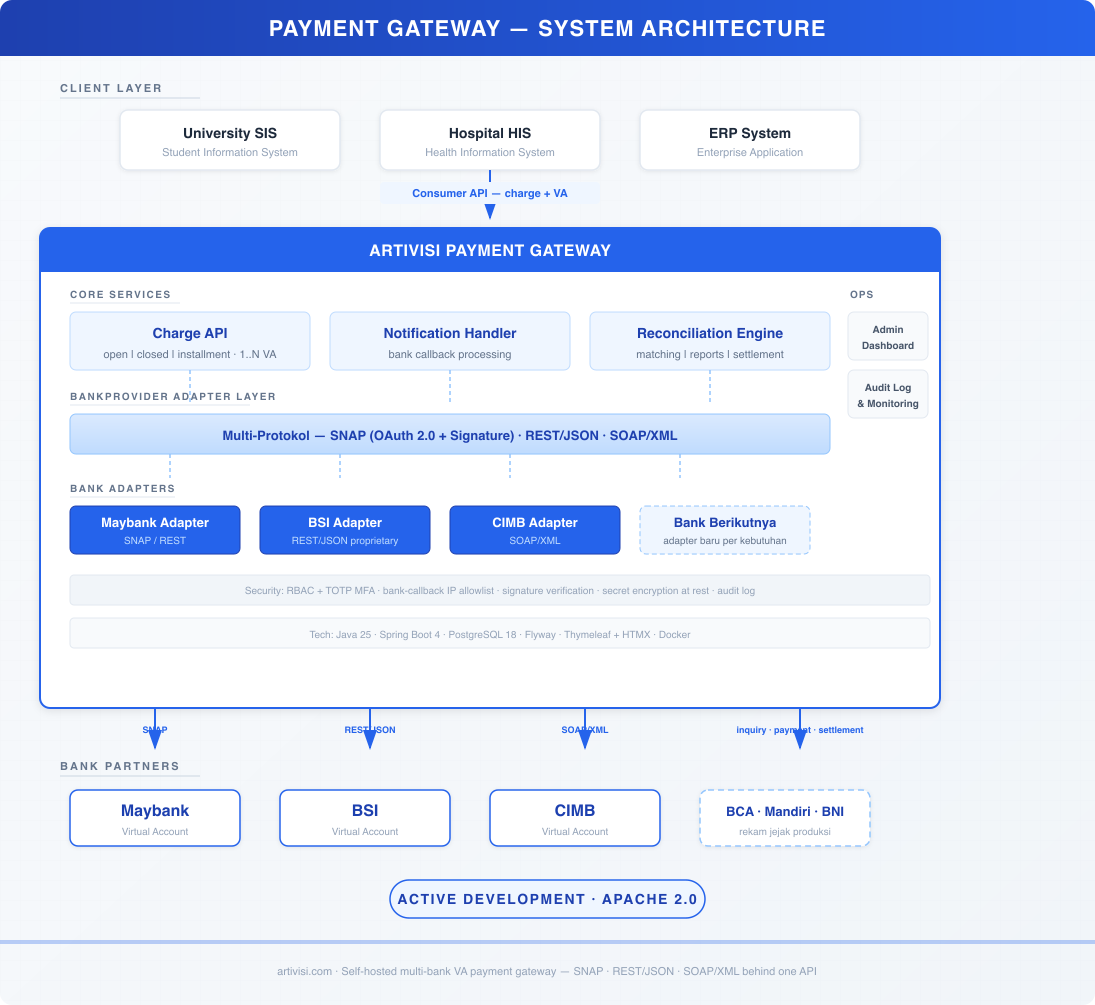
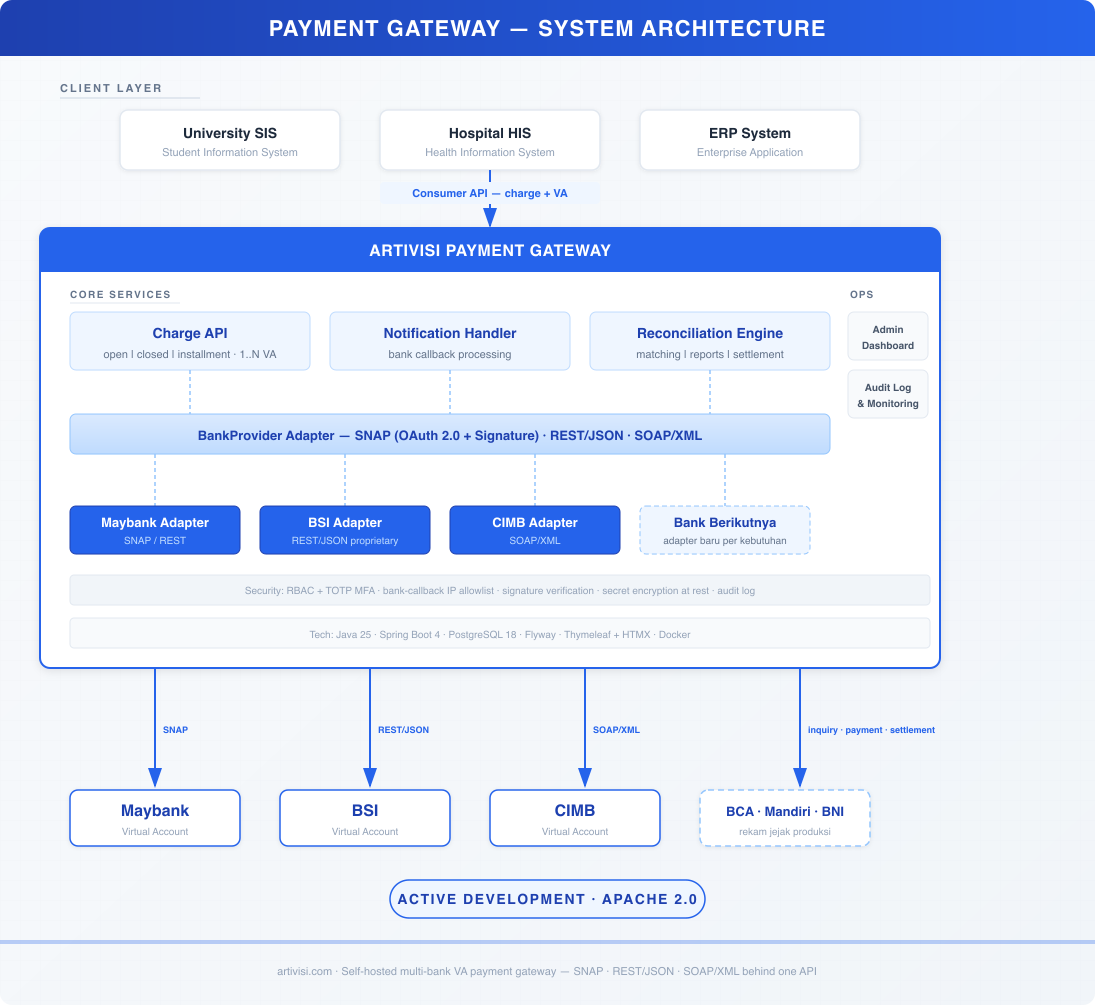
products: fix ecosystem topology and thumbnail rendering
- Ecosystem diagram: drop the generic client/source box — Sawala plays the
  client-app role, posting journals directly to Balaka and creating charges/VAs
  directly at the gateway (no AR in that path); Account Receivable stands on
  its own input (admin UI / CSV / API) with its gateway + GL integrations
- Thumbnails (payment-gateway, account-receivable): connect gateway→bank and
  AR→sibling arrows to their target boxes, extend dashed connectors to the
  layers they point at, move protocol labels beside arrows instead of on them,
  shrink container dead space
- Products index narrative updated to describe both integration patterns

Claude-Session: https://claude.ai/code/session_01TquLFaVMAxPMCUme1mMZ4X

diff --git a/content/products/_index.md b/content/products/_index.md
@@ -9,7 +9,7 @@ Enam produk untuk operasional institusi. Semua open source (Apache 2.0), berjala
 
 ![Ekosistem Aplikasi Production](/img/products/product-ecosystem-production.svg)
 
-**Produk Pembayaran & Piutang** — rantai uang masuk: sistem sumber menerbitkan piutang ke Account Receivable, ditagih via Payment Gateway ke bank, jurnalnya diposting ke buku besar. Klien memiliki hubungan langsung dengan bank, tanpa perantara.
+**Produk Pembayaran & Piutang** — rantai uang masuk: piutang dikelola di Account Receivable (input via admin UI, upload CSV, atau API), ditagih via Payment Gateway ke bank, jurnal diposting ke buku besar. Aplikasi klien juga bisa langsung ke Payment Gateway dan Balaka tanpa melalui Account Receivable — seperti yang dilakukan Sawala. Klien memiliki hubungan langsung dengan bank, tanpa perantara.
 
 | Produk | Fungsi |
 |---|---|